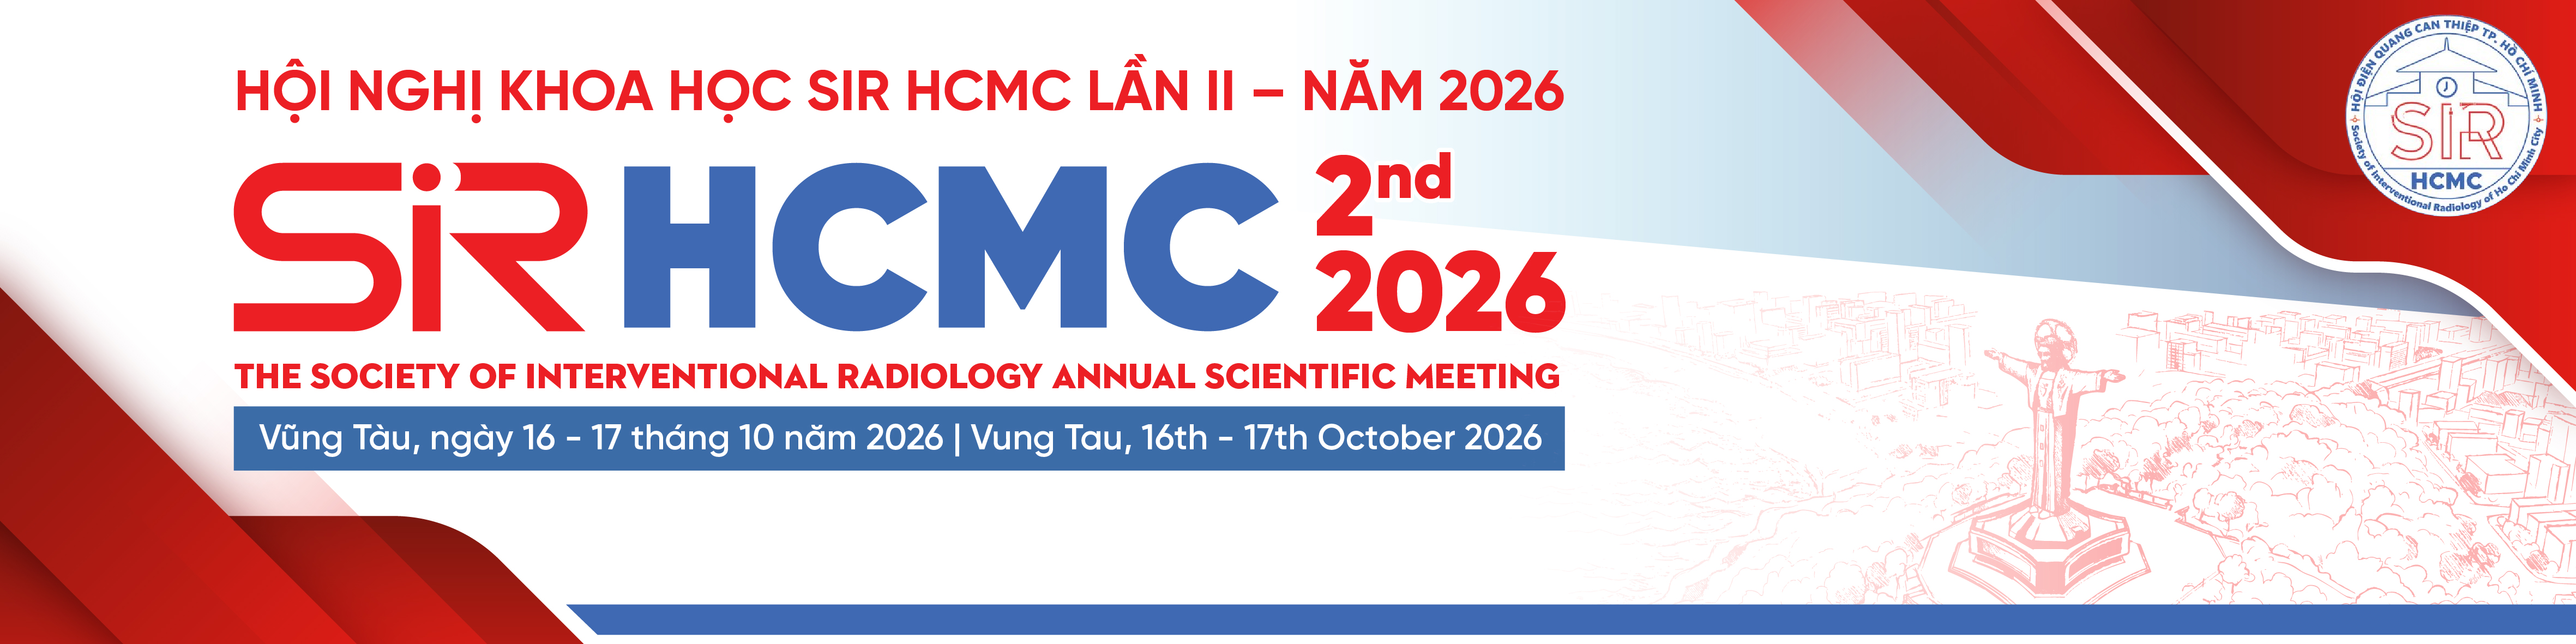
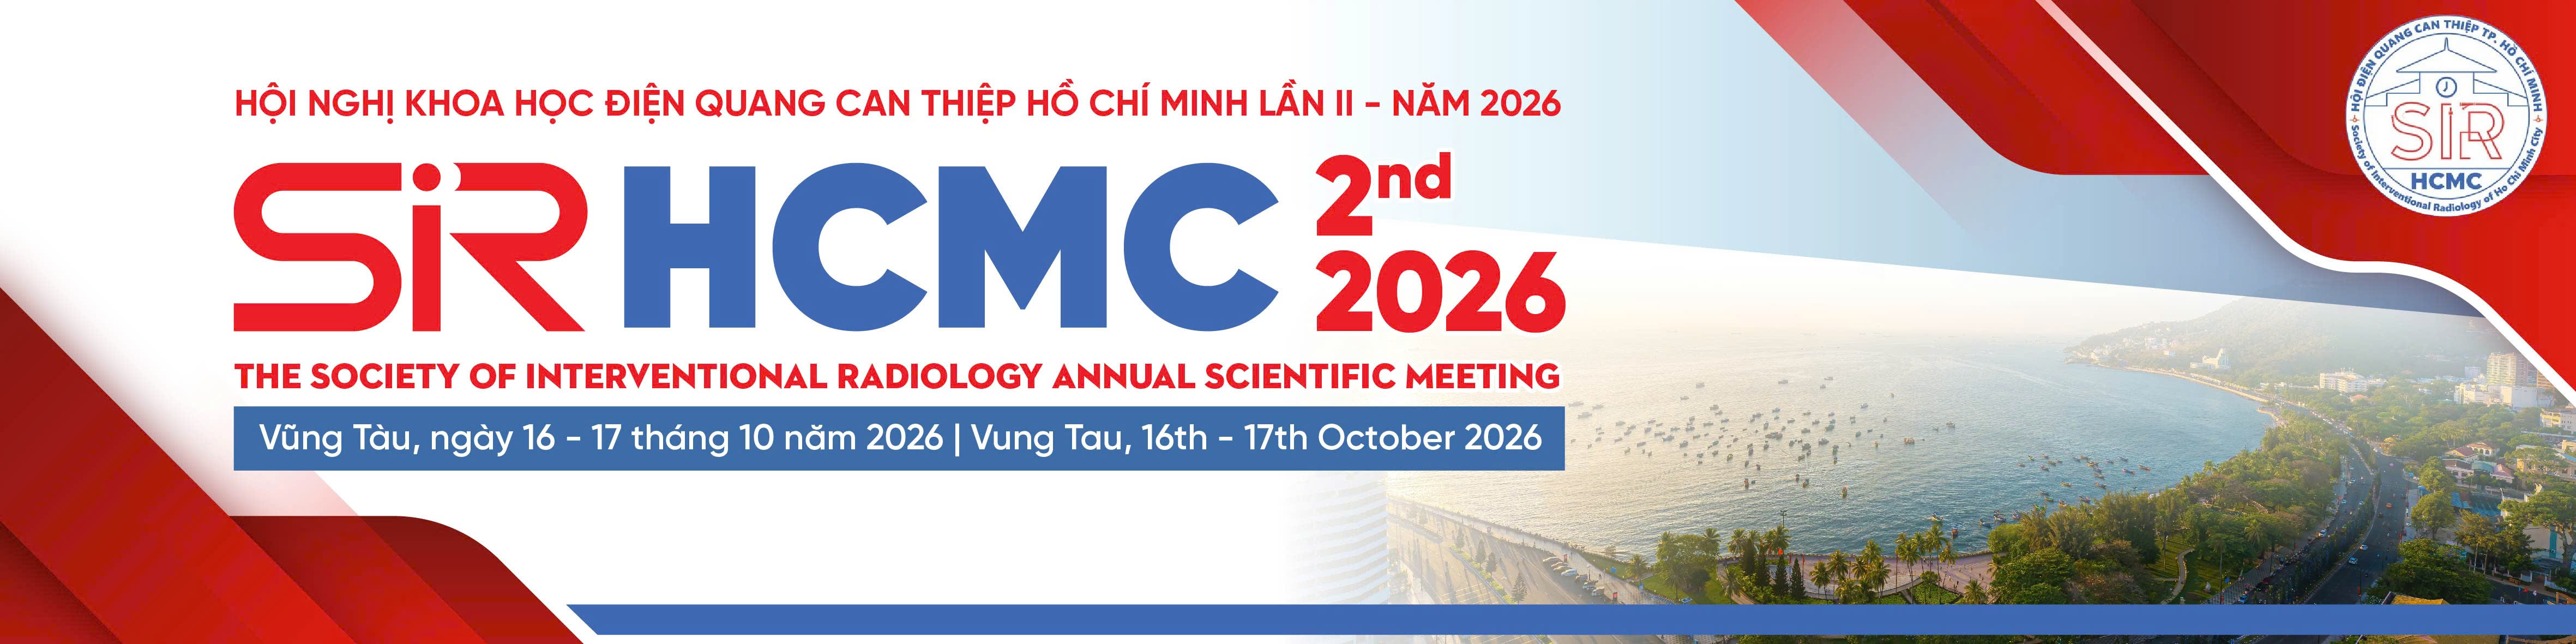
update style

diff --git a/storage/app/public/css/style.css b/storage/app/public/css/style.css
@@ -1414,7 +1414,7 @@ ol {
 
 .oc-grid {
     display: grid;
-    grid-template-columns: repeat(3, minmax(0, 1fr));
+    grid-template-columns: repeat(4, minmax(0, 1fr));
     gap: 30px;
 }
 
@@ -2558,7 +2558,7 @@ ol {
         margin-right: 0;
     }
     .oc-grid {
-        grid-template-columns: repeat(2, minmax(0, 1fr));
+        grid-template-columns: repeat(3, minmax(0, 1fr));
     }
 }
 
@@ -2653,7 +2653,7 @@ ol {
 
 @media only screen and (max-width: 767px) {
     .oc-grid {
-        grid-template-columns: 1fr;
+        grid-template-columns: repeat(2, minmax(0, 1fr));
     }
     .counter-section .cd-timer .cd-item {
         margin-bottom: 10px;
@@ -2710,6 +2710,9 @@ ol {
 /* Small Mobile: 320px */
 
 @media only screen and (max-width: 479px) {
+    .oc-grid {
+        grid-template-columns: repeat(1, minmax(0, 1fr));
+    }
     .bh-text h2 {
         font-size: 36px;
         line-height: normal;